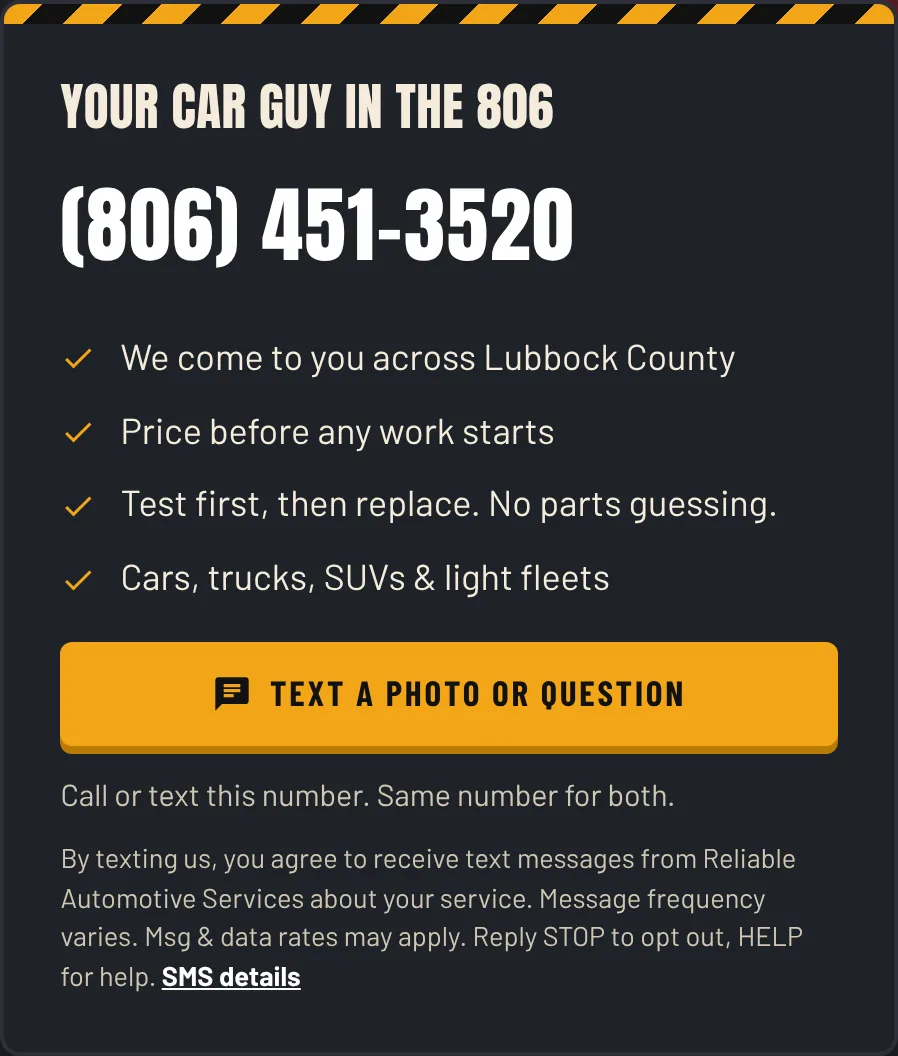
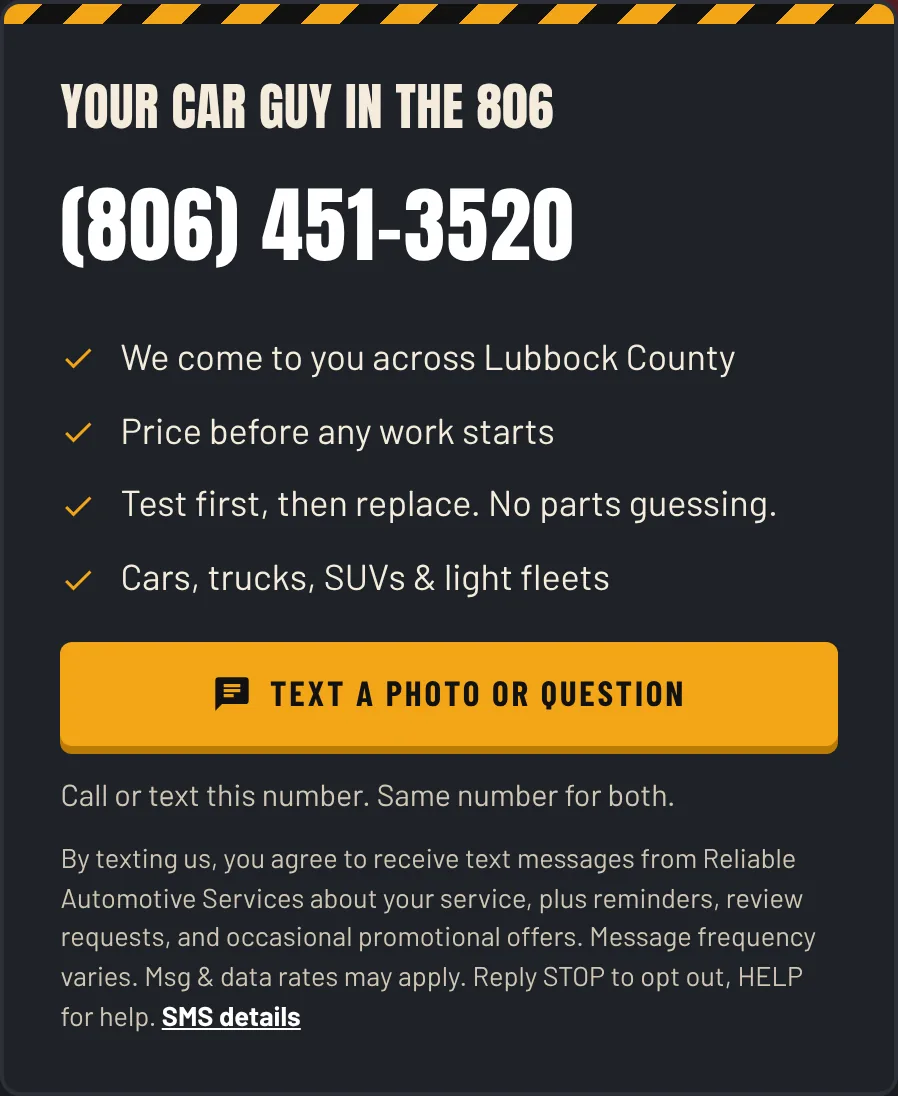
Match SMS disclosures to the approved Twilio campaign
The verified campaign (Low Volume Mixed) covers service texts plus
service-due reminders, review requests, and occasional promotional
offers, but the site said "we do not send marketing texts". The short
disclosure beside every Text button, the full consent wording, Terms,
Privacy, the SMS page, and the opt-in evidence page (screenshots
recaptured) now disclose that scope in English and Spanish. A static
check keeps the site and campaign in agreement.

Claude-Session: https://claude.ai/code/session_017kF9u6K8SAm3y7f3WTa67E

diff --git a/content_es.py b/content_es.py
@@ -22,7 +22,7 @@ UI = {
     "all_services": "Todos los servicios", "all_areas": "Todas las áreas", "about": "Nosotros",
     "contact_req": "Contacto y solicitud de servicio", "text_us": "Mándenos un mensaje",
     "terms": "Términos de servicio", "privacy": "Política de privacidad", "sms_link": "Mensajes de texto (SMS)",
-    "sms_short": "Al mandarnos un mensaje, usted acepta recibir mensajes de texto de Reliable Automotive Services sobre su servicio. La frecuencia de los mensajes varía. Pueden aplicar cargos por mensajes y datos. Responda STOP para cancelar o HELP para ayuda.",
+    "sms_short": "Al mandarnos un mensaje, usted acepta recibir mensajes de texto de Reliable Automotive Services sobre su servicio, además de recordatorios, solicitudes de reseña y ofertas promocionales ocasionales. La frecuencia de los mensajes varía. Pueden aplicar cargos por mensajes y datos. Responda STOP para cancelar o HELP para ayuda.",
     "sms_details": "Detalles de SMS",
     "footer_tag": "Reparación de autos a domicilio &middot; Condado de Lubbock, TX",
     "quick": "Contacto rápido", "main_nav": "Principal", "crumb_label": "Ruta de navegación",
@@ -361,7 +361,7 @@ TERMS = {
         ("Condiciones previas", "<p>Los vehículos más viejos pueden tener piezas gastadas, oxidadas, pegadas o quebradizas. Tornillos, sensores, conectores y líneas se pueden romper al quitarlos de forma normal aunque se manejen con cuidado. Si esto pasa le avisaremos de inmediato, y no seremos responsables de piezas que fallen por su estado previo. No somos responsables de objetos personales que se dejen en el vehículo.</p>"),
         ("Inspecciones", "<p>Las inspecciones antes de comprar y las inspecciones generales son una evaluación visual y funcional del estado del vehículo en el momento de la inspección. No garantizan el funcionamiento futuro y no pueden detectar todos los problemas ocultos o intermitentes.</p>"),
         ("Límite de responsabilidad", "<p>En la medida máxima que permita la ley, nuestra responsabilidad total por cualquier reclamo relacionado con nuestros servicios se limita a la cantidad que usted pagó por el servicio específico en cuestión. No somos responsables por pérdidas indirectas o consecuentes, como pérdida de uso, renta de vehículo, grúa, salarios perdidos o ganancias perdidas, excepto cuando la ley de Texas no permita esos límites.</p>"),
-        ("Mensajes de texto (SMS)", "<p>Nuestra línea de mensajes de texto es el {text_link}. El cliente inicia la conversación. Usted acepta recibir mensajes de texto de Reliable Automotive Services sobre su solicitud, cotizaciones y presupuestos, citas, estado de la reparación y recibos cuando nos manda un mensaje primero, o cuando marca la casilla opcional de mensajes de texto en nuestro formulario de solicitud. Enviar una solicitud sin marcar la casilla no es consentimiento para recibir mensajes. No mandamos mensajes de publicidad.</p><ul><li>La frecuencia de los mensajes varía según su servicio.</li><li>Pueden aplicar cargos por mensajes y datos.</li><li>Responda <strong>STOP</strong> en cualquier momento para cancelar. Recibirá una confirmación y ningún mensaje más.</li><li>Responda <strong>HELP</strong> para ayuda, o llame al {call_link}.</li><li>Aceptar recibir mensajes no es condición para ninguna compra.</li><li>Las compañías telefónicas no son responsables por mensajes retrasados o no entregados.</li></ul><p>Los detalles completos están en nuestra página de <a href=\"/es/mensajes-de-texto/\">Mensajes de texto (SMS)</a>. Vea también nuestra <a href=\"/es/privacidad/\">Política de privacidad</a>.</p>"),
+        ("Mensajes de texto (SMS)", "<p>Nuestra línea de mensajes de texto es el {text_link}. El cliente inicia la conversación. Usted acepta recibir mensajes de texto de Reliable Automotive Services sobre su solicitud, cotizaciones y presupuestos, citas, estado de la reparación y recibos cuando nos manda un mensaje primero, o cuando marca la casilla opcional de mensajes de texto en nuestro formulario de solicitud. Enviar una solicitud sin marcar la casilla no es consentimiento para recibir mensajes. Los mensajes también pueden incluir recordatorios de servicio, solicitudes de reseña y ofertas promocionales ocasionales.</p><ul><li>La frecuencia de los mensajes varía según su servicio.</li><li>Pueden aplicar cargos por mensajes y datos.</li><li>Responda <strong>STOP</strong> en cualquier momento para cancelar. Recibirá una confirmación y ningún mensaje más.</li><li>Responda <strong>HELP</strong> para ayuda, o llame al {call_link}.</li><li>Aceptar recibir mensajes no es condición para ninguna compra.</li><li>Las compañías telefónicas no son responsables por mensajes retrasados o no entregados.</li></ul><p>Los detalles completos están en nuestra página de <a href=\"/es/mensajes-de-texto/\">Mensajes de texto (SMS)</a>. Vea también nuestra <a href=\"/es/privacidad/\">Política de privacidad</a>.</p>"),
         ("Idioma", "<p>Estos Términos se ofrecen en inglés y en español para su comodidad. Si hay alguna diferencia entre las dos versiones, prevalece la versión en inglés.</p>"),
         ("Ley aplicable", "<p>Estos Términos se rigen por las leyes del Estado de Texas. Cualquier disputa se resolverá en los tribunales del condado de Lubbock, Texas, salvo que la ley indique otra cosa.</p>"),
         ("Cambios", "<p>Podemos actualizar estos Términos de vez en cuando. La fecha de vigencia al inicio de esta página muestra cuándo cambiaron por última vez. La versión vigente cuando usted programa un servicio es la que aplica a ese servicio.</p>"),
@@ -381,7 +381,7 @@ PRIVACY = {
         ("Información que se recopila automáticamente", "<p>Este sitio web no usa rastreadores de publicidad, cookies de análisis ni píxeles de mercadotecnia de terceros. Nuestro proveedor de hospedaje y seguridad, Cloudflare, procesa información técnica básica como direcciones IP, tipo de navegador y las páginas solicitadas para poder mostrar el sitio y protegerlo de abusos. Consulte la política de privacidad de Cloudflare para saber cómo maneja esos datos. Si en el futuro agregamos herramientas de análisis, primero actualizaremos esta política.</p>"),
         ("Cómo usamos la información", "<ul><li>Para responder a su solicitud y darle una cotización</li><li>Para programar, trasladarnos y dar servicio a su vehículo</li><li>Para enviar facturas, recibos y registros de servicio, y procesar pagos</li><li>Para dar seguimiento a trabajos terminados y preguntas de garantía</li><li>Para cumplir con obligaciones legales, fiscales y contables</li></ul>"),
         ("Con quién compartimos la información", "<p>No vendemos ni rentamos su información personal. Solo la compartimos cuando es necesario para atenderle, por ejemplo con proveedores de piezas (datos del vehículo para pedir piezas), procesadores de pago y nuestros proveedores de software de contabilidad y administración del taller, o cuando la ley lo exige. Estos proveedores solo pueden usar su información para prestarnos sus servicios.</p>"),
-        ("Mensajes de texto (SMS)", "<p>Los números de teléfono y mensajes que nos manda se usan solo para comunicarnos sobre su servicio. <strong>No se compartirá información móvil con terceros ni afiliados para fines de mercadotecnia o promoción.</strong> Los datos de aceptación (opt-in) y el consentimiento para mensajes de texto quedan excluidos de todas las categorías de información compartida que se describen en esta política y no se compartirán con ningún tercero. Responda STOP para dejar de recibir mensajes, o HELP para ayuda. Vea nuestra página de <a href=\"/es/mensajes-de-texto/\">Mensajes de texto (SMS)</a>.</p>"),
+        ("Mensajes de texto (SMS)", "<p>Los números de teléfono y mensajes que nos manda se usan solo para mensajes de Reliable Automotive Services sobre su servicio, recordatorios, solicitudes de reseña y ofertas ocasionales. <strong>No se compartirá información móvil con terceros ni afiliados para fines de mercadotecnia o promoción.</strong> Los datos de aceptación (opt-in) y el consentimiento para mensajes de texto quedan excluidos de todas las categorías de información compartida que se describen en esta política y no se compartirán con ningún tercero. Responda STOP para dejar de recibir mensajes, o HELP para ayuda. Vea nuestra página de <a href=\"/es/mensajes-de-texto/\">Mensajes de texto (SMS)</a>.</p>"),
         ("Conservación y seguridad de los datos", "<p>Guardamos los registros de clientes y de servicio de vehículos el tiempo necesario para respaldar las garantías y el historial de servicio de su vehículo, y para cumplir con nuestras obligaciones legales y fiscales. Usamos medidas razonables para proteger su información, pero ningún método de almacenamiento o transmisión es completamente seguro.</p>"),
         ("Sus opciones", "<p>Puede pedirnos saber qué información tenemos sobre usted, pedirnos que la corrijamos o que la borremos, salvo los registros que la ley nos obliga a conservar. Llame al {call_link} o mande un mensaje al {text_link}.</p>"),
         ("Menores de edad", "<p>Nuestro sitio web y servicios están dirigidos a adultos. No recopilamos a sabiendas información personal de niños menores de 13 años.</p>"),
@@ -402,12 +402,12 @@ SMS_PAGE = {
     "cta_btn": "Mensaje al (806) 451-3520",
     "form_btn": "Usar el formulario",
     "consent_h": "Consentimiento para recibir mensajes de texto",
-    "consent": "Al mandar un mensaje de texto a Reliable Automotive Services al (806) 451-3520, o al marcar la casilla opcional de mensajes de texto en nuestro formulario de solicitud, usted acepta recibir mensajes de texto de Reliable Automotive Services sobre su solicitud de servicio, cotizaciones y presupuestos, citas, estado de la reparación y recibos. La frecuencia de los mensajes varía. Pueden aplicar cargos por mensajes y datos. Responda STOP para cancelar en cualquier momento. Responda HELP para ayuda. El consentimiento no es condición de compra. Las compañías telefónicas no son responsables por mensajes retrasados o no entregados.",
+    "consent": "Al mandar un mensaje de texto a Reliable Automotive Services al (806) 451-3520, o al marcar la casilla opcional de mensajes de texto en nuestro formulario de solicitud, usted acepta recibir mensajes de texto de Reliable Automotive Services sobre su solicitud de servicio, cotizaciones y presupuestos, citas, estado de la reparación y recibos, además de recordatorios de servicio, solicitudes de reseña y ofertas promocionales ocasionales. La frecuencia de los mensajes varía. Pueden aplicar cargos por mensajes y datos. Responda STOP para cancelar en cualquier momento. Responda HELP para ayuda. El consentimiento no es condición de compra. Las compañías telefónicas no son responsables por mensajes retrasados o no entregados.",
     "sections": [
-        ("Programa", "<p><strong>Mensajes de atención al cliente de Reliable Automotive Services.</strong> Mandamos mensajes de texto a clientes que se comunican con nosotros por reparación y mantenimiento de vehículos en el condado de Lubbock, Texas, y pueblos cercanos. Los mensajes son conversaciones sobre su propio servicio. No mandamos mensajes de publicidad ni promociones.</p>"),
+        ("Programa", "<p><strong>Mensajes de atención al cliente de Reliable Automotive Services.</strong> Mandamos mensajes de texto a clientes que se comunican con nosotros por reparación y mantenimiento de vehículos en el condado de Lubbock, Texas, y pueblos cercanos. La mayoría de los mensajes son sobre su propio servicio. También podemos mandar recordatorios de servicio, solicitudes de reseña después de un trabajo y ofertas promocionales ocasionales. Responda STOP en cualquier momento para dejar de recibir todos los mensajes, incluidas las ofertas.</p>"),
         ("Cómo acepta recibir mensajes", "<p>Usted acepta al mandarnos primero un mensaje al {text_link}, o al marcar la casilla opcional (sin marcar de inicio) de mensajes de texto en el formulario de solicitud de nuestra <a href=\"/es/contacto/\">página de Contacto</a>. La casilla nunca es obligatoria: puede enviar una solicitud sin ella. El formulario abre un mensaje ya escrito hacia nosotros en su teléfono, y no se envía nada hasta que usted toque enviar. Nunca agregamos números de listas compradas o compartidas.</p>"),
-        ("Qué le mandamos", "<ul><li>Respuestas a sus preguntas y solicitudes</li><li>Cotizaciones, presupuestos y solicitudes de aprobación</li><li>Programación de citas, recordatorios y avisos de llegada</li><li>Avisos del estado de la reparación y recibos</li></ul><p>Ejemplo: &ldquo;Reliable Automotive: Hola Sam, su presupuesto de frenos está listo: $289 por balatas y rotores delanteros. Responda YES para aprobar. Responda STOP para cancelar.&rdquo;</p>"),
-        ("Frecuencia y costo", "<p>La frecuencia de los mensajes varía según su servicio, normalmente unos cuantos mensajes por trabajo. Pueden aplicar cargos por mensajes y datos según su plan de celular.</p>"),
+        ("Qué le mandamos", "<ul><li>Respuestas a sus preguntas y solicitudes</li><li>Cotizaciones, presupuestos y solicitudes de aprobación</li><li>Programación de citas, recordatorios y avisos de llegada</li><li>Avisos del estado de la reparación y recibos</li><li>Recordatorios de servicio, como un cambio de aceite que ya toca</li><li>Solicitudes de reseña después de un trabajo terminado</li><li>Ofertas promocionales ocasionales</li></ul><p>Ejemplo: &ldquo;Reliable Automotive: Hola Sam, su presupuesto de frenos está listo: $289 por balatas y rotores delanteros. Responda YES para aprobar. Responda STOP para cancelar.&rdquo;</p>"),
+        ("Frecuencia y costo", "<p>La frecuencia de los mensajes varía según su servicio, normalmente unos cuantos mensajes por trabajo, además de recordatorios, solicitudes de reseña y ofertas ocasionales. Pueden aplicar cargos por mensajes y datos según su plan de celular.</p>"),
         ("Cancelar y pedir ayuda", "<p>Responda <strong>STOP</strong> a cualquier mensaje para cancelar. Recibirá un mensaje de confirmación y ningún mensaje más. Responda <strong>START</strong> para volver a recibir mensajes. Responda <strong>HELP</strong> para ayuda, o llame al {call_link}.</p>"),
         ("Privacidad", "<p><strong>No se compartirá información móvil con terceros ni afiliados para fines de mercadotecnia o promoción.</strong> Los datos de aceptación (opt-in) y el consentimiento para mensajes de texto no se compartirán con ningún tercero. Vea nuestra <a href=\"/es/privacidad/\">Política de privacidad</a> y nuestros <a href=\"/es/terminos/\">Términos de servicio</a>.</p>"),
         ("Compañías telefónicas", "<p>Las compañías telefónicas no son responsables por mensajes retrasados o no entregados. El consentimiento para recibir mensajes no es condición para comprar ningún producto o servicio. Siempre puede llamarnos al {call_link}.</p>"),
@@ -421,7 +421,7 @@ SMS_EVIDENCE = {
     "h1": "Cómo aceptan los clientes recibir mensajes de texto",
     "lead": "Todos los lugares donde invitamos a los clientes a mandarnos un mensaje, y el aviso de consentimiento que ven antes de hacerlo. El cliente siempre manda el primer mensaje.",
     "summary_h": "Resumen",
-    "summary": "<p>Reliable Automotive Services es un negocio de mecánica a domicilio en el condado de Lubbock, Texas. Los clientes aceptan recibir mensajes de texto al <strong>mandarnos primero un mensaje al {text_link}</strong>. Los invitamos a mandarnos mensajes en cada página de este sitio, y el aviso de consentimiento aparece junto a cada botón de mensaje, antes de que el cliente nos escriba. También pueden enviar una solicitud con nuestro formulario, que requiere marcar una casilla de consentimiento y luego abre un mensaje ya escrito desde el teléfono del cliente. Nunca mandamos mensajes a un número que no nos haya escrito primero, y no mandamos mensajes de publicidad.</p>",
+    "summary": "<p>Reliable Automotive Services es un negocio de mecánica a domicilio en el condado de Lubbock, Texas. Los clientes aceptan recibir mensajes de texto al <strong>mandarnos primero un mensaje al {text_link}</strong>. Los invitamos a mandarnos mensajes en cada página de este sitio, y el aviso de consentimiento aparece junto a cada botón de mensaje, antes de que el cliente nos escriba. También pueden enviar una solicitud con nuestro formulario, que requiere marcar una casilla de consentimiento y luego abre un mensaje ya escrito desde el teléfono del cliente. Nunca mandamos mensajes a un número que no nos haya escrito primero o marcado la casilla de consentimiento. Los mensajes tratan sobre el servicio del cliente, recordatorios de servicio, solicitudes de reseña y ofertas promocionales ocasionales, y cualquier mensaje se puede detener respondiendo STOP.</p>",
     "disclosure_h": "Aviso de consentimiento que se muestra antes de mandar un mensaje (texto exacto)",
     "steps": [
         ("1. Botón de mensaje en cada página", "home-text-cta",

diff --git a/content_en.py b/content_en.py
@@ -22,7 +22,7 @@ UI = {
     "all_services": "All services", "all_areas": "All areas", "about": "About",
     "contact_req": "Contact &amp; Request Service", "text_us": "Text us",
     "terms": "Terms of Service", "privacy": "Privacy Policy", "sms_link": "Text Messaging (SMS)",
-    "sms_short": "By texting us, you agree to receive text messages from Reliable Automotive Services about your service. Message frequency varies. Msg &amp; data rates may apply. Reply STOP to opt out, HELP for help.",
+    "sms_short": "By texting us, you agree to receive text messages from Reliable Automotive Services about your service, plus reminders, review requests, and occasional promotional offers. Message frequency varies. Msg &amp; data rates may apply. Reply STOP to opt out, HELP for help.",
     "sms_details": "SMS details",
     "footer_tag": "Mobile auto repair &middot; Lubbock County, TX",
     "quick": "Quick contact", "main_nav": "Main", "crumb_label": "Breadcrumb",
@@ -362,7 +362,7 @@ TERMS = {
         ("Pre-existing conditions", "<p>Older vehicles may have worn, rusted, seized, or brittle parts. Fasteners, sensors, connectors, and lines can break during normal removal even when handled with care. We will tell you right away if this happens and will not be responsible for parts that fail because of their prior condition. We are not responsible for personal items left in the vehicle.</p>"),
         ("Inspections", "<p>Pre-purchase and general inspections are a visual and functional evaluation of the vehicle's condition at the time of the inspection. They are not a guarantee of future performance and cannot detect every hidden or intermittent problem.</p>"),
         ("Limitation of liability", "<p>To the fullest extent allowed by law, our total liability for any claim related to our services is limited to the amount you paid for the specific service involved. We are not liable for indirect or consequential losses such as loss of use, rental costs, towing, lost wages, or lost profits, except where Texas law does not allow such limits.</p>"),
-        ("Text messages (SMS)", "<p>Our text line is {text_link}. Customers start the conversation. You agree to receive text messages from Reliable Automotive Services about your request, quotes and estimates, appointments, repair status, and receipts when you text us first, or when you check the optional text-message box on our service request form. Sending a request without checking the box is not consent to texts. We do not send marketing texts.</p><ul><li>Message frequency varies with your service.</li><li>Message and data rates may apply.</li><li>Reply <strong>STOP</strong> at any time to opt out. You'll get one confirmation and no more texts.</li><li>Reply <strong>HELP</strong> for help, or call {call_link}.</li><li>Consent to receive texts is not a condition of any purchase.</li><li>Carriers are not liable for delayed or undelivered messages.</li></ul><p>Full details are on our <a href=\"/sms/\">Text Messaging (SMS)</a> page. See also our <a href=\"/privacy/\">Privacy Policy</a>.</p>"),
+        ("Text messages (SMS)", "<p>Our text line is {text_link}. Customers start the conversation. You agree to receive text messages from Reliable Automotive Services about your request, quotes and estimates, appointments, repair status, and receipts when you text us first, or when you check the optional text-message box on our service request form. Sending a request without checking the box is not consent to texts. Texts may also include service-due reminders, review requests, and occasional promotional offers.</p><ul><li>Message frequency varies with your service.</li><li>Message and data rates may apply.</li><li>Reply <strong>STOP</strong> at any time to opt out. You'll get one confirmation and no more texts.</li><li>Reply <strong>HELP</strong> for help, or call {call_link}.</li><li>Consent to receive texts is not a condition of any purchase.</li><li>Carriers are not liable for delayed or undelivered messages.</li></ul><p>Full details are on our <a href=\"/sms/\">Text Messaging (SMS)</a> page. See also our <a href=\"/privacy/\">Privacy Policy</a>.</p>"),
         ("Language", "<p>These Terms are provided in English and Spanish for your convenience. If there is any conflict between the two versions, the English version controls.</p>"),
         ("Governing law", "<p>These Terms are governed by the laws of the State of Texas. Any dispute will be handled in the courts located in Lubbock County, Texas, unless the law requires otherwise.</p>"),
         ("Changes", "<p>We may update these Terms from time to time. The effective date at the top of this page shows when they last changed. The version in effect when you schedule service applies to that service.</p>"),
@@ -382,7 +382,7 @@ PRIVACY = {
         ("Information collected automatically", "<p>This website does not use advertising trackers, analytics cookies, or third-party marketing pixels. Our hosting and security provider, Cloudflare, processes basic technical information such as IP addresses, browser type, and the pages requested in order to deliver the site and protect it from abuse. See Cloudflare's privacy policy for how it handles that data. If we add analytics in the future, we will update this policy first.</p>"),
         ("How we use information", "<ul><li>To respond to your request and give you a quote</li><li>To schedule, travel to, and perform service on your vehicle</li><li>To send invoices, receipts, and service records, and to process payments</li><li>To follow up on completed work and warranty questions</li><li>To meet legal, tax, and accounting obligations</li></ul>"),
         ("How we share information", "<p>We do not sell or rent your personal information. We share it only as needed to serve you, such as with parts suppliers (vehicle details for ordering parts), payment processors, and our accounting and shop-management software providers, or when required by law. These providers may only use your information to provide services to us.</p>"),
-        ("Text messages (SMS)", "<p>Phone numbers and messages you send us are used only to communicate about your service. <strong>No mobile information will be shared with third parties or affiliates for marketing or promotional purposes.</strong> Text messaging originator opt-in data and consent are excluded from every category of sharing described in this policy and will not be shared with any third parties. Reply STOP to stop receiving texts from us, or HELP for help. See our <a href=\"/sms/\">Text Messaging (SMS)</a> page.</p>"),
+        ("Text messages (SMS)", "<p>Phone numbers and messages you send us are used only for texts from Reliable Automotive Services about your service, reminders, review requests, and occasional offers. <strong>No mobile information will be shared with third parties or affiliates for marketing or promotional purposes.</strong> Text messaging originator opt-in data and consent are excluded from every category of sharing described in this policy and will not be shared with any third parties. Reply STOP to stop receiving texts from us, or HELP for help. See our <a href=\"/sms/\">Text Messaging (SMS)</a> page.</p>"),
         ("Data retention and security", "<p>We keep customer and vehicle service records for as long as needed to support warranties and your vehicle's service history, and to meet our legal and tax obligations. We use reasonable safeguards to protect your information, but no method of storage or transmission is completely secure.</p>"),
         ("Your choices", "<p>You can ask us what information we have about you, ask us to correct it, or ask us to delete it, subject to records we are legally required to keep. Call {call_link} or text {text_link}.</p>"),
         ("Children", "<p>Our website and services are intended for adults. We do not knowingly collect personal information from children under 13.</p>"),
@@ -403,12 +403,12 @@ SMS_PAGE = {
     "cta_btn": "Text (806) 451-3520",
     "form_btn": "Use the request form",
     "consent_h": "Consent to receive text messages",
-    "consent": "By texting Reliable Automotive Services at (806) 451-3520, or by checking the optional text-message box on our service request form, you agree to receive text messages from Reliable Automotive Services about your service request, quotes and estimates, appointments, repair status, and receipts. Message frequency varies. Message and data rates may apply. Reply STOP to opt out at any time. Reply HELP for help. Consent is not a condition of purchase. Carriers are not liable for delayed or undelivered messages.",
+    "consent": "By texting Reliable Automotive Services at (806) 451-3520, or by checking the optional text-message box on our service request form, you agree to receive text messages from Reliable Automotive Services about your service request, quotes and estimates, appointments, repair status, and receipts, plus service-due reminders, review requests, and occasional promotional offers. Message frequency varies. Message and data rates may apply. Reply STOP to opt out at any time. Reply HELP for help. Consent is not a condition of purchase. Carriers are not liable for delayed or undelivered messages.",
     "sections": [
-        ("Program", "<p><strong>Reliable Automotive Services customer care texts.</strong> We text customers who contact us about vehicle repair and maintenance in Lubbock County, Texas, and surrounding towns. Texts are conversational and about your own service. We do not send marketing or promotional texts.</p>"),
+        ("Program", "<p><strong>Reliable Automotive Services customer care texts.</strong> We text customers who contact us about vehicle repair and maintenance in Lubbock County, Texas, and surrounding towns. Most texts are about your own service. We may also send service-due reminders, review requests after a job, and occasional promotional offers. Reply STOP at any time to stop all texts, including offers.</p>"),
         ("How you opt in", "<p>You opt in by texting us first at {text_link}, or by checking the optional, unchecked text-message box on the service request form on our <a href=\"/contact/\">Contact page</a>. The box is never required: you can send a request without it. The form opens a pre-filled text to us on your phone, and nothing is sent until you hit send. We never add numbers to a text list from a purchased or shared list.</p>"),
-        ("What we send", "<ul><li>Replies to your questions and requests</li><li>Quotes, estimates, and approval requests</li><li>Appointment scheduling, reminders, and arrival updates</li><li>Repair status updates and receipts</li></ul><p>Example: &ldquo;Reliable Automotive: Hi Sam, your brake estimate is ready: $289 for front pads and rotors. Reply YES to approve. Reply STOP to opt out.&rdquo;</p>"),
-        ("Message frequency and cost", "<p>Message frequency varies depending on your service, usually a few messages per job. Message and data rates may apply according to your mobile plan.</p>"),
+        ("What we send", "<ul><li>Replies to your questions and requests</li><li>Quotes, estimates, and approval requests</li><li>Appointment scheduling, reminders, and arrival updates</li><li>Repair status updates and receipts</li><li>Service-due reminders, such as an oil change coming due</li><li>Review requests after a completed job</li><li>Occasional promotional offers</li></ul><p>Example: &ldquo;Reliable Automotive: Hi Sam, your brake estimate is ready: $289 for front pads and rotors. Reply YES to approve. Reply STOP to opt out.&rdquo;</p>"),
+        ("Message frequency and cost", "<p>Message frequency varies depending on your service, usually a few messages per job, plus occasional reminders, review requests, and offers. Message and data rates may apply according to your mobile plan.</p>"),
         ("Opting out and getting help", "<p>Reply <strong>STOP</strong> to any message to opt out. You'll receive one confirmation text and no further messages. Reply <strong>START</strong> to opt back in. Reply <strong>HELP</strong> for help, or call {call_link}.</p>"),
         ("Privacy", "<p><strong>No mobile information will be shared with third parties or affiliates for marketing or promotional purposes.</strong> Text messaging originator opt-in data and consent will not be shared with any third parties. See our <a href=\"/privacy/\">Privacy Policy</a> and <a href=\"/terms/\">Terms of Service</a>.</p>"),
         ("Carriers", "<p>Carriers are not liable for delayed or undelivered messages. Consent to receive texts is not a condition of purchasing any goods or services. You can always call us at {call_link} instead.</p>"),
@@ -422,7 +422,7 @@ SMS_EVIDENCE = {
     "h1": "How Customers Opt In to Text Messages",
     "lead": "Every place we invite customers to text us, and the consent disclosure they see before they text. Customers always send the first message.",
     "summary_h": "Summary",
-    "summary": "<p>Reliable Automotive Services is a mobile auto repair business in Lubbock County, Texas. Customers opt in to text messages by <strong>texting us first at {text_link}</strong>. We invite them to text on every page of this website, and the consent disclosure is shown directly beside every text button, before the customer texts. Customers can also send a request through our website form, which requires checking an SMS consent box and then opens a pre-filled text to us from the customer's own phone. We never text a number that has not texted us first, and we do not send marketing messages.</p>",
+    "summary": "<p>Reliable Automotive Services is a mobile auto repair business in Lubbock County, Texas. Customers opt in to text messages by <strong>texting us first at {text_link}</strong>. We invite them to text on every page of this website, and the consent disclosure is shown directly beside every text button, before the customer texts. Customers can also send a request through our website form, which requires checking an SMS consent box and then opens a pre-filled text to us from the customer's own phone. We never text a number that has not texted us first or checked the consent box. Texts cover the customer's service, service-due reminders, review requests, and occasional promotional offers, and every message can be stopped by replying STOP.</p>",
     "disclosure_h": "Consent disclosure shown before texting (exact wording)",
     "steps": [
         ("1. Text button on every page", "home-text-cta",

diff --git a/tests/static_checks.py b/tests/static_checks.py
@@ -154,6 +154,25 @@ for sms_url, contact_url, privacy_url, terms_url, words in [
     tt = text_of(terms_url)
     for w in ("STOP", "HELP", "(806) 451-3520"):
         if w not in tt: fails.append(f"{terms_url}: SMS terms missing {w!r}")
+# ---- Text scope must match the approved Twilio campaign (Low Volume Mixed: service texts,
+#      service-due reminders, review requests, occasional promotional offers)
+for url, words in [("/sms/", ["review requests", "occasional promotional offers", "service-due reminders"]),
+                   ("/contact/", ["review requests", "occasional promotional offers"]),
+                   ("/terms/", ["review requests", "occasional promotional offers"]),
+                   ("/es/mensajes-de-texto/", ["solicitudes de reseña", "ofertas promocionales ocasionales"]),
+                   ("/es/contacto/", ["solicitudes de reseña", "ofertas promocionales ocasionales"])]:
+    t = text_of(url)
+    for w in words:
+        if w not in t: fails.append(f"{url}: SMS scope must disclose {w!r} (matches the approved campaign)")
+for url in pages:
+    t = text_of(url)
+    for bad in ("We do not send marketing", "we do not send marketing", "No mandamos mensajes de publicidad", "no mandamos mensajes de publicidad"):
+        if bad in t: fails.append(f"{url}: says {bad!r}, contradicting the approved campaign")
+for url in pages:
+    if url.endswith("404.html"): continue
+    if 'class="sms-note"' in raw[url] and "occasional promotional offers" not in raw[url] and "ofertas promocionales ocasionales" not in raw[url]:
+        fails.append(f"{url}: short SMS disclosure does not mention promotional offers")
+
 for url, phrase in [("/privacy/", "No mobile information will be shared with third parties or affiliates for marketing or promotional purposes."),
                     ("/sms/", "No mobile information will be shared with third parties or affiliates for marketing or promotional purposes."),
                     ("/es/privacidad/", "No se compartirá información móvil con terceros ni afiliados para fines de mercadotecnia o promoción.")]:
